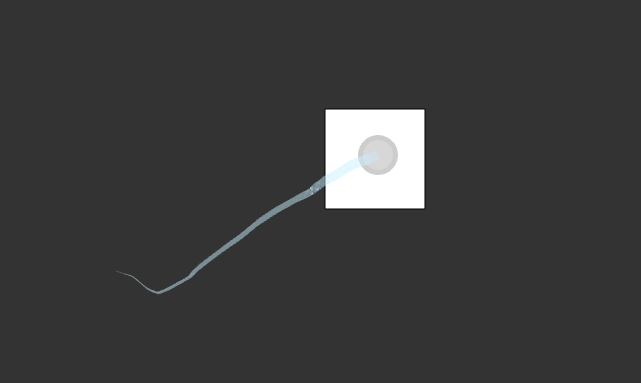
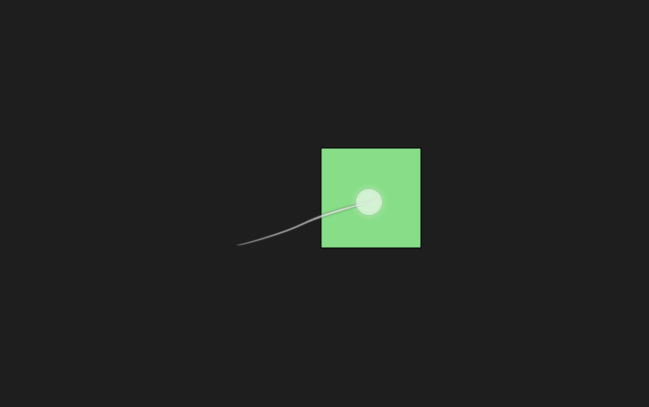
updated tutorial one, fixed the contact page, and added myself to the news

Changed region(s): [[0.3432, 0.2872, 0.6864, 0.6606], [0.2184, 0.6606, 0.3432, 0.7755], [0.1872, 0.718, 0.2184, 0.7467]]

diff --git a/html/tutorial/one.php b/html/tutorial/one.php
@@ -21,7 +21,7 @@
 			This is an introductory tutorial. It assumes that the reader knows basic processing, but no more.
 		</p>
 		<p>
-			The Simple Multi-Touch toolkit, also known as SMT, makes using multi-touch interactions in sketches easy. In this tutorial, we will walk though the absolute basics of SMT and how to get started with making your own multi-touch applications.
+			The Simple Multi-Touch Toolkit for Processing, also known as SMT, makes using multi-touch interactions in sketches easy. In this tutorial, we will walk though the absolute basics of SMT and how to get started with making your own multi-touch applications.
 		</p>
 
 		<h4>Initialization</h4>
@@ -31,10 +31,10 @@ void setup(){
 size(displayWidth, displayHeight, P3D);
 SMT.init( this, TouchSource.MULTIPLE);</code></pre>
 		<p>
-			Whenever using SMT, <code>SMT.init()</code> must be called. It must be called after <code>size()</code>.
+			Whenever using SMT, <code>SMT.init()</code> must be called. It must be called after <code>size()</code>. Here we use the displayWidth and displayHeight values, intending for the sketch to be run full-screen. To run a sketch in full-screen mode with processing's IDE, click Sketch -> Present in the menu bar, or hit the keys Control + Shift + R.
 		</p>
 		<p>
-			SMT only supports OpenGL 3D renderers, so the third parameter in <code>size()</code> must be <code>OPENGL</code> or <code>P3D</code>. There are multiple possible values for the second parameter of <code>SMT.init()</code>, but for now, we'll just use <code>MULTIPLE</code> to automatically detect the source.
+			SMT only supports the OpenGL 3D renderers, so the third parameter in <code>size()</code> must be <code>OPENGL</code> or <code>P3D</code>. There are multiple possible values for the second parameter of <code>SMT.init()</code>, but for now, we'll just use <code>AUTOMATIC</code> to automatically detect the source.
 		</p>
 
 		<h4>Making a Zone</h4>
@@ -42,13 +42,13 @@ SMT.init( this, TouchSource.MULTIPLE);</code></pre>
 Zone zone = new Zone( "MyZone");
 SMT.add( zone);</code></pre>
 		<p>
-			The Zone could be considered the central concept of SMT. A Zone is a drawable area that can be interacted with through touch. The name of the Zone is very important. In this case, we've named the Zone <code>"MyZone"</code>.
+			The Zone could be considered the central concept of SMT. A Zone is a drawable area that can be touched. The name of the Zone is very important. In this case, we've named the Zone <code>"MyZone"</code>.
 		</p>
 
 		<h4>Drawing a Zone</h4>
 <pre><code class="java">//Draw function for "MyZone"
 void drawMyZone(Zone zone){
-rect(0, 0, 100, 100);
+	rect(0, 0, 100, 100);
 }</code></pre>
 		<p>
 			This function defines how any Zone with the name <code>"MyZone"</code> is drawn. If the Zone was named <code>"SpecialZone"</code>, this function would have to be defined as <code class="java">void drawSpecialZone( Zone zone){}</code>. In other words, to draw a zone, make a function named <code>draw[Zone name]</code>.
@@ -57,7 +57,7 @@ rect(0, 0, 100, 100);
 		<h4>Detecting Touches</h4>
 <pre><code class="java">//Pick function for "MyZone"
 void pickDrawMyZone(Zone zone){
-rect(0, 0, 100, 100);
+	rect(0, 0, 100, 100);
 }</code></pre>
 		<p>
 			This function works in the same way as the <code>drawMyZone()</code> function. Instead of drawing to the screen, however, it draws to something called a "pick buffer". Think of this as defining the touchable area for a Zone. Generally, one can use the same code as the draw function. Similarly to the draw function, the function must be named <code>pickDraw[Zone name]</code>. If you're curious about how SMT uses this function, read <a href="http://wiki.processing.org/w/Picking_with_a_color_buffer">this processing tutorial</a>.
@@ -66,10 +66,10 @@ rect(0, 0, 100, 100);
 		<h4>Handling Touches</h4>
 <pre><code class="java">//Touch function for "MyZone"
 void touchMyZone(Zone zone){
-zone.drag();
+	zone.drag();
 }</code></pre>
 		<p>
-			This function defines what to do when a Zone is being touched. There are a number of built-in functions available, such as <code>.drag()</code>, which is used in this example, <code>.rotate()</code>, <code>.scale()</code>, <code>.rst()</code>, <code>.rnt()</code>, <code>.rs()</code>, and more. Each of these have many parameters avaiable, to customize the behavior. If none of the build-in functions are suitable, it is possible to code custom behavior, but this is outside the scope of this tutorial. The function must be named <code>touch[Zone name]</code>.
+			This function defines what to do when a Zone is being touched. There are a number of built-in functions available, such as <code>.drag()</code>, which is used in this example, <code>.rotate()</code>, <code>.scale()</code>, <code>.rst()</code>, <code>.rnt()</code>, <code>.rs()</code>, and more. Each of these have many parameters avaiable, to customize the behavior. If none of the built-in functions are suitable, it is possible to code custom behavior, but this is outside the scope of this tutorial. The function must be named <code>touch[Zone name]</code>.
 		</p>
 
 		<h4>Result</h4>
@@ -77,7 +77,7 @@ zone.drag();
 			This is what you should see when running this tutorial's code in processing.
 		</p>
 		<p>
-			The screenshot depicts the user dragging the zone ( the white rectangle ).
+			The screenshot depicts the user dragging the zone ( the green rectangle ).
 		</p>
 		<img class="img-thumbnail" style="margin: 0 auto; display:block"
 			src="/smt/img/tutorial1.png" alt="Tutorial 1 Screenshot">

diff --git a/html/index.php b/html/index.php
@@ -35,21 +35,31 @@
 		<div class="row-fluid">
 			<div class="span6">
 				<h2>Contributors Welcome!</h2>
-				<p>Simple Multi-Touch is open source and we are looking for people to contribute to our library. If you want to help us make multi-touch even easier to use with Processing, then check out our
-					<a href="https://github.com/vialab/SMT">GitHub page</a> and contact us by email!
+				<p>
+					Simple Multi-Touch is open source and open to new contributors. If you want to help us make multi-touch even easier to use with Processing, check out our <a href="https://github.com/vialab/SMT">Github page</a> and contact us by email!
 				</p>
 			</div>
 			<div class="span6">
 				<h2>News</h2>
 				<p>
+					<b>09/2013</b>
+					<br>
+					Kalev Kalda Sikes was hired as a SurfNet intern. As part of this new role he has taken over SMT's maintenance and active development.
+				</p>
+				<p>
 					<b>06/2013</b>
-					<br>Zach and Erik gave a tutorial on Simple Multi-Touch at SurfNet 2013 in Calgary, Alberta, Canada</p>
+					<br>
+					Zach and Erik gave a tutorial on Simple Multi-Touch at SurfNet 2013 in Calgary, Alberta, Canada
+				</p>
 				<p>
 					<b>04/2013</b>
-					<br>Simple Multi-Touch was accepted as an Official Contributed Library to Processing</p>
+					<br>
+					Simple Multi-Touch was accepted as an Official Contributed Library to Processing
+				</p>
 				<p>
 					<b>09/2012</b>
-					<br>Zach and Erik gave a tutorial on Simple Multi-Touch at SurfNet 2012 in Kitchener, Ontario, Canada
+					<br>
+					Zach and Erik gave a tutorial on Simple Multi-Touch at SurfNet 2012 in Kitchener, Ontario, Canada
 				</p>
 			</div>
 		</div>

diff --git a/html/contact.php b/html/contact.php
@@ -18,7 +18,7 @@
 			Email us at vialab[dot]smt[at]gmail[dot]com
 		</p>
 		<p>
-			If you have problems running SMT, first test that the Processing examples work (File->Examples->Basics), if they do no, check the troubleshooting page for solutions (<a href="http://wiki.processing.org/w/Troubleshooting">wiki.processing.org/w/Troubleshooting</a>).
+			If you have problems running SMT, first test the Processing examples (File -> Examples -> Basics). If you have problems with them, have a look at processing's troubleshooting page for solutions: <a href="http://wiki.processing.org/w/Troubleshooting">wiki.processing.org/w/Troubleshooting</a>.
 		</p>
 		<p>
 			Next, try contacting the communities at <a href="http://reddit.com/r/processing">/r/processing</a>, and <a href="http://reddit.com/r/SimpleMultiTouch">/r/SimpleMultiTouch</a>. Other users and the developers hang out there, and would be happy to assist you.
